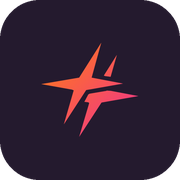
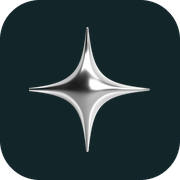
Neue Bildmarke: gelieferte Artwork statt Inline-SVG
LogoMark rendert jetzt src/assets/logo-mark.png; der alte Funkelstern-Pfad
(MYTV_MARK_D) und die Verlaufs-IDs entfallen. In der Wortmarke sitzt die
Marke auf einem dunklen Chip: die Artwork hat feste Farben, und eine halb
weisse Marke waere auf der weissen Navigationsleiste unsichtbar.

Alle Favicons (16/32/48/192/512, apple-touch-icon, .ico) neu erzeugt, ebenso
das OG-Bild — das trug noch "MYTVonline" und niederlaendischen Text.

Claude-Session: https://claude.ai/code/session_01NocqKu3aeeMMoaQJQiJb1Y

Changed region(s): [[0.1389, 0.1389, 0.8333, 0.8611]]

diff --git a/src/components/ui.tsx b/src/components/ui.tsx
@@ -1,40 +1,24 @@
 import React from 'react';
+import logoMark from '../assets/logo-mark.png';
 import { BRAND, PAYMENT_ICONS, PAYMENT_ICONS_ALT } from '../data/iptvData';
 
 /**
- * Die Bildmarke: ein kantiger vierzackiger Funkelstern — scharfe, spitz
- * zulaufende Zacken, keine weichen Kurven — mit einem kleineren zweiten
- * Funkeln versetzt dahinter. Beide sind geradlinige Polygone, die Form
- * bleibt also in jeder Größe knackig. Gefüllt mit dem Markenverlauf.
- * Dazu die Wortmarke: `BRAND.mark1` fett, `BRAND.mark2` leichter, eng
- * gesetzt. Ab 32px Höhe klar lesbar.
+ * Die Bildmarke der Seite — gelieferte Artwork-Datei, keine Inline-SVG mehr.
+ * Jede Schwesterseite legt ihre eigene `logo-mark.png` an dieselbe Stelle,
+ * der Code bleibt identisch.
+ *
+ * Bewusst nur die Marke ohne Grund: `Logo` setzt sie auf einen dunklen Chip
+ * (siehe dort), die Intro-Karte und das Telefon-Badge bringen ihren eigenen
+ * dunklen Grund schon mit.
  */
-/** Icon-only mark — the angular sparkle, no wordmark. Reused anywhere the
- * full `Logo` is too wide, e.g. the phone floating-header badge. */
-/* Restrained idle/hover motion, transform/opacity only, disabled under
- * prefers-reduced-motion in index.css: the small offset sparkle twinkles
- * gently at rest, and the whole mark lifts a touch on hover/focus of its
- * containing link or button. Shape and colours are unchanged from the
- * original mark — no asset regeneration needed. */
-export const MYTV_MARK_D =
-  'M39.53 1.03L33.2 23.96L53.9 27.89L29.6 32.17L14.89 54.76L21.39 32.34L20.19 31.83L0.0 28.24L24.98 23.96L39.36 1.2ZM49.8 9.07L45.69 23.44L41.93 22.93L41.24 22.59L49.63 9.24ZM43.12 32.51L45.86 32.68L64.0 36.11L39.7 40.39L24.98 62.97L31.49 41.07L31.49 40.56L30.97 40.21L28.41 39.87L30.97 35.08L31.83 34.57L42.95 32.68Z';
-
-export const LogoMark: React.FC<{ className?: string; gradientId?: string }> = ({
-  className = 'h-6 w-6',
-  gradientId = 'mytvGrad',
-}) => (
-  <svg viewBox="0 0 64 64" className={`logo-mark ${className}`} aria-hidden="true">
-    <defs>
-      <linearGradient id={gradientId} x1="4" y1="6" x2="56" y2="58" gradientUnits="userSpaceOnUse">
-        <stop offset="0%" stopColor="var(--color-orange)" />
-        <stop offset="100%" stopColor="var(--color-magenta)" />
-      </linearGradient>
-    </defs>
-    {/* Traced directly from the reference artwork the user supplied, so the
-        silhouette matches it exactly rather than approximating it. The main
-        star and its offset sparkle are separate rings in one evenodd path. */}
-    <path d={MYTV_MARK_D} fill={`url(#${gradientId})`} fillRule="evenodd" />
-  </svg>
+export const LogoMark: React.FC<{ className?: string }> = ({ className = 'h-6 w-6' }) => (
+  <img
+    src={logoMark}
+    alt=""
+    aria-hidden="true"
+    decoding="async"
+    className={`logo-mark object-contain ${className}`}
+  />
 );
 
 /**
@@ -47,7 +31,16 @@ export const Logo: React.FC<{ className?: string }> = ({ className = 'h-8 sm:h-9
     className={`flex shrink-0 items-center gap-2 no-underline ${className}`}
     aria-label={`${BRAND.full} — Startseite`}
   >
-    <LogoMark className="h-full w-auto shrink-0" />
+    <span
+      className="flex h-full aspect-square shrink-0 items-center justify-center rounded-[0.65rem]"
+      style={{ background: 'var(--ink-solid)' }}
+    >
+      {/* Prozentgroesse statt h-full: der Chip leitet seine Breite ueber
+          `aspect-square` aus der Hoehe ab, und ein h-full-Kind darin hat
+          keine aufloesbare Bezugshoehe — die Marke schrumpfte auf wenige
+          Pixel. 68% laesst ringsum den Rand stehen, den der Chip braucht. */}
+      <LogoMark className="h-[68%] w-[68%]" />
+    </span>
     <span className="flex items-baseline leading-none">
       <span className="text-[17px] font-extrabold tracking-tight text-ink sm:text-[19px]">
         {BRAND.mark1}

diff --git a/src/components/Navbar.tsx b/src/components/Navbar.tsx
@@ -163,7 +163,7 @@ export const Navbar: React.FC = () => {
             tabIndex={scrolled ? 0 : -1}
             className="absolute left-1/2 top-1/2 flex h-11 w-11 -translate-x-1/2 -translate-y-1/2 items-center justify-center rounded-2xl bg-[var(--ink-solid)] shadow-[0_12px_24px_-10px_rgba(var(--ink-rgb), 0.6)]"
           >
-            <LogoMark className="h-6 w-6" gradientId="mytvGradFloat" />
+            <LogoMark className="h-6 w-6" />
           </a>
 
           <button

diff --git a/src/components/Intro.tsx b/src/components/Intro.tsx
@@ -79,7 +79,7 @@ export const Intro: React.FC = () => {
               animate={{ opacity: 1, y: 0 }}
               transition={{ duration: 0.65, ease: [0.22, 1, 0.36, 1] }}
             >
-              <LogoMark className="h-12 w-12" gradientId="mytvGradIntro" />
+              <LogoMark className="h-12 w-12" />
             </motion.div>
 
             <motion.div
